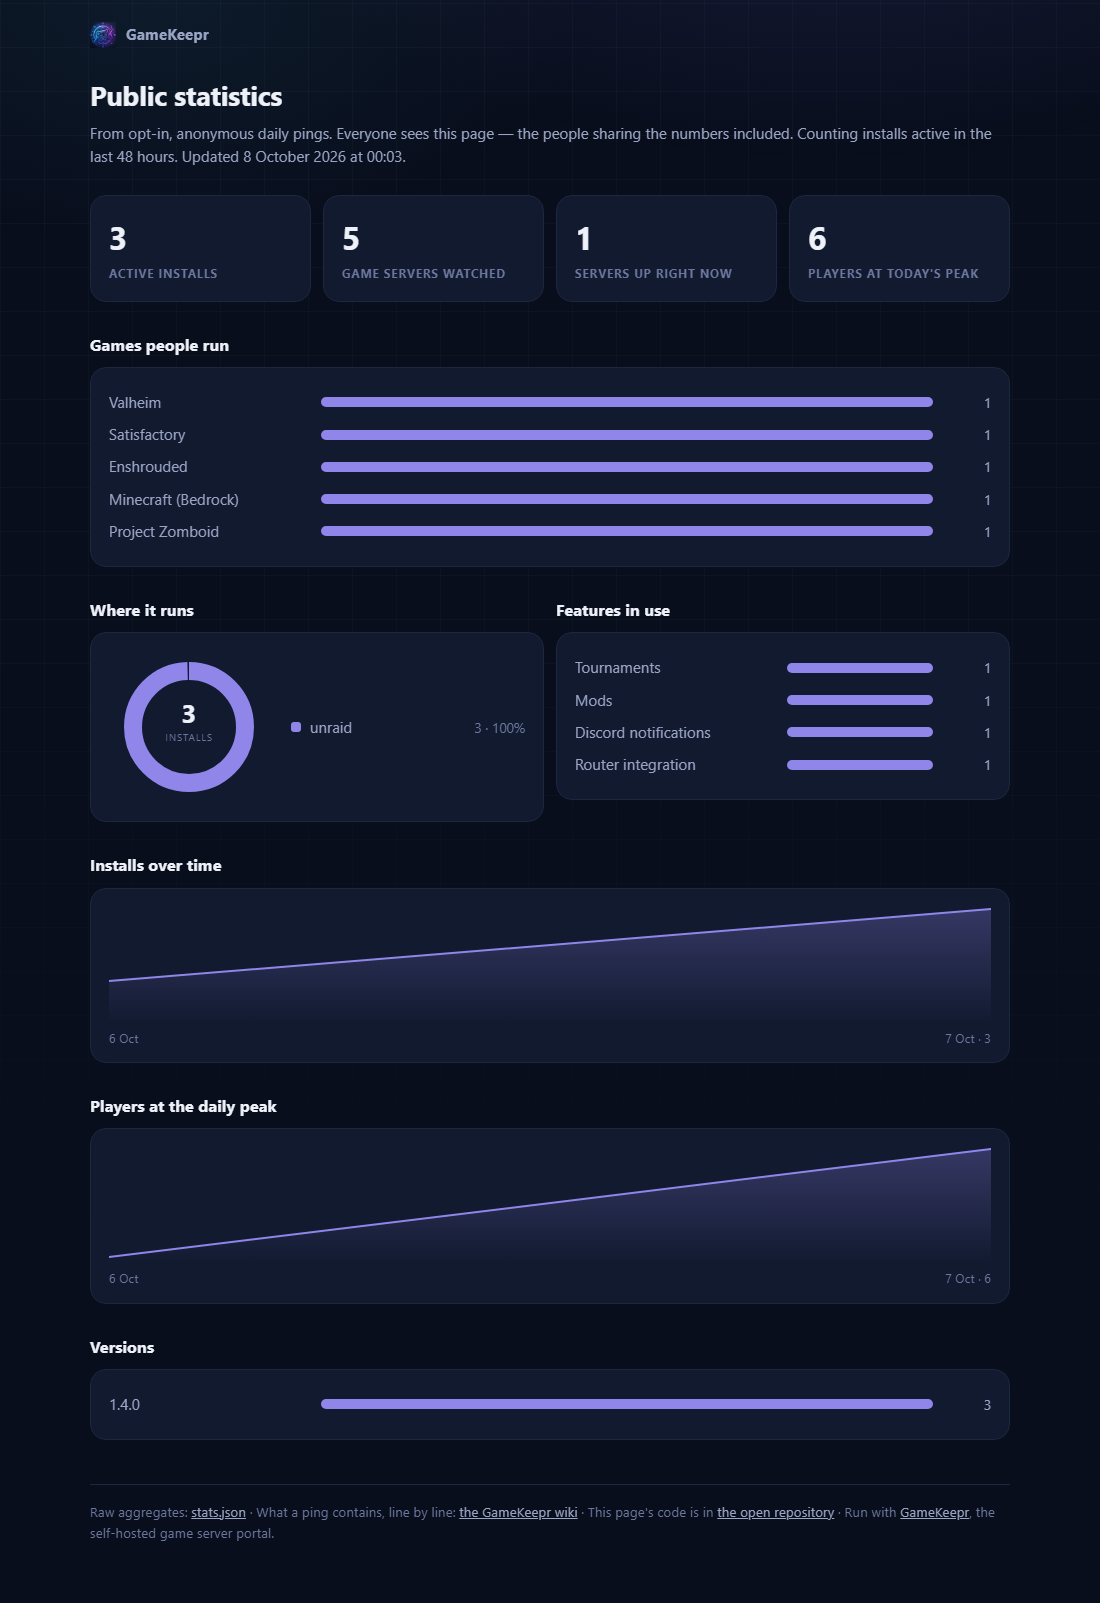
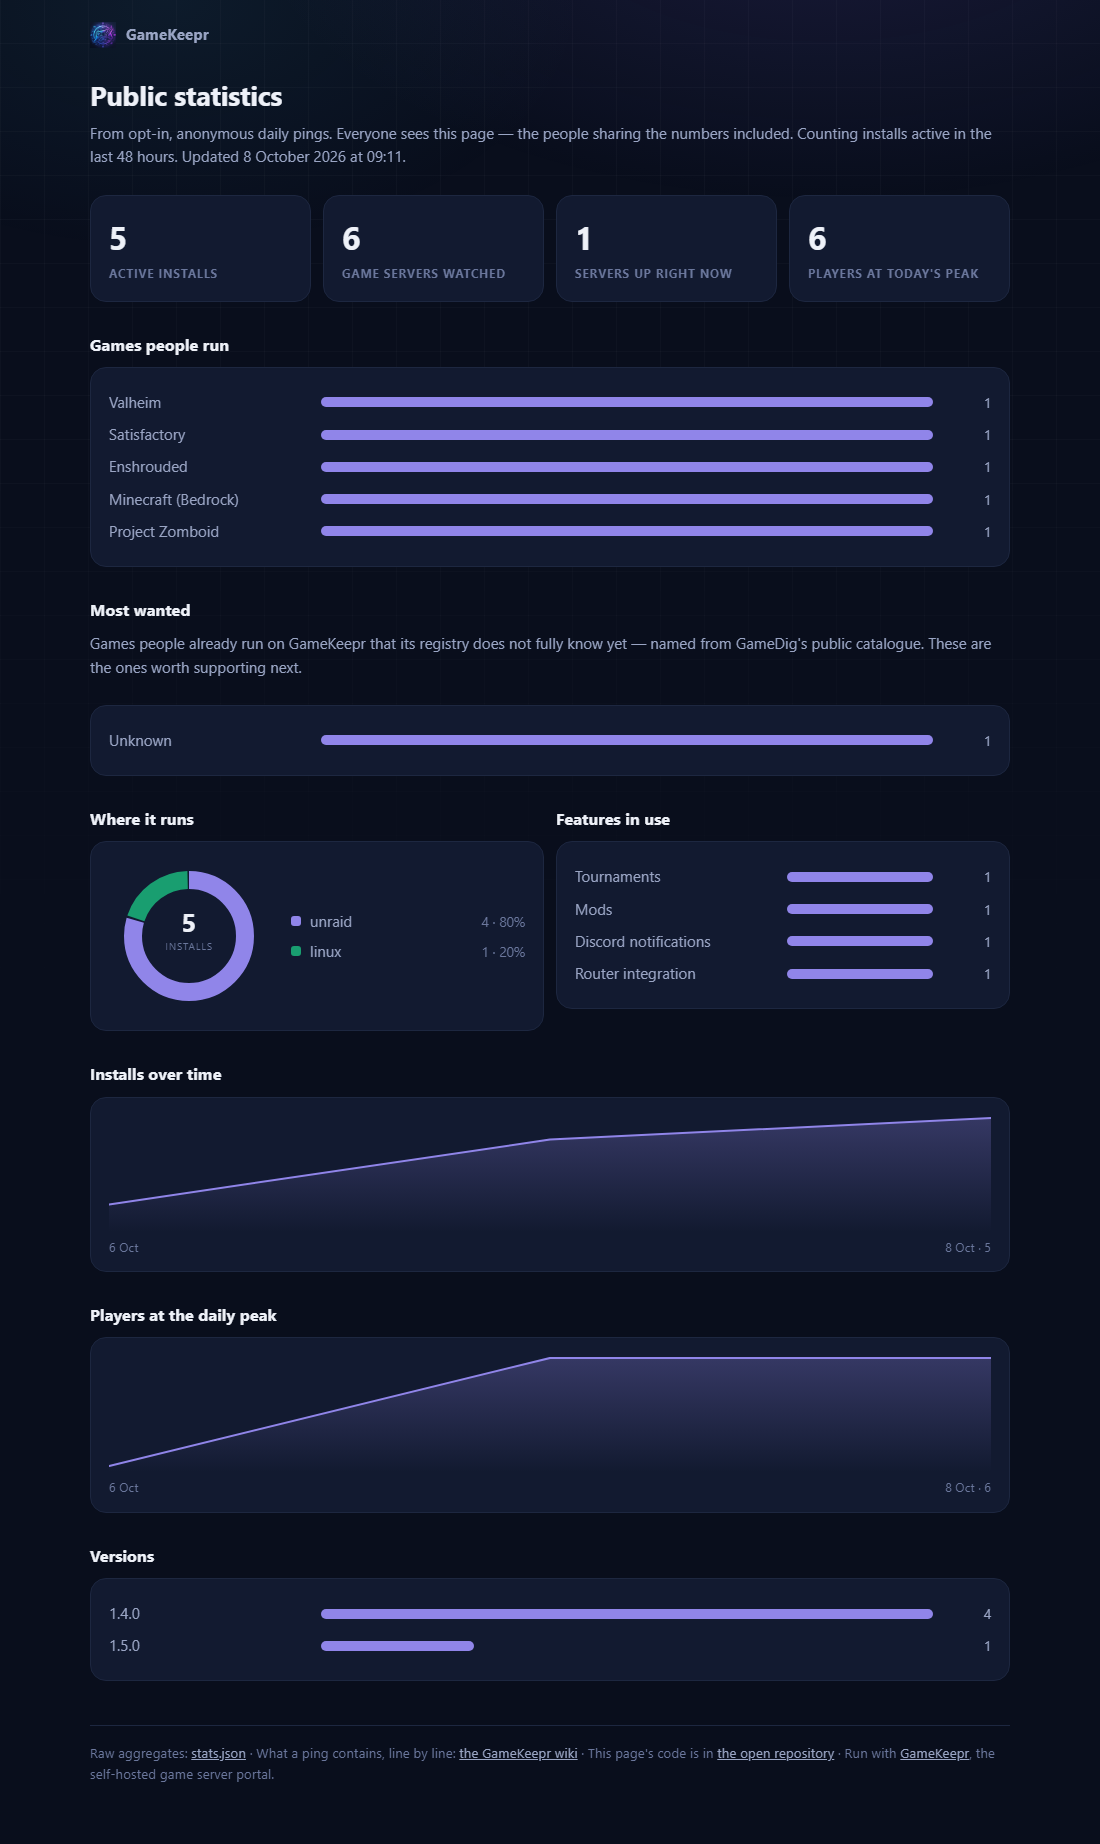
Legacy pings land on the wish list too, and a fresh screenshot
A portal that has not upgraded yet still reports an unrecognised game
as "Unknown" inside games; the worker now routes exactly that name to
the wish list while aggregating, so the public page reads correctly
today instead of after everyone has updated. Verified live: "Games
people run" lists the five recognised ones, "Most wanted" holds the
Unknown.

diff --git a/mothership/worker.js b/mothership/worker.js
@@ -147,7 +147,12 @@ async function aggregates(env) {
   for (const row of rows) {
     try {
       for (const [name, count] of Object.entries(JSON.parse(row.games))) {
-        games[name] = (games[name] ?? 0) + Number(count);
+        // A portal older than the gamesWanted split still reports an
+        // unrecognised game as "Unknown" inside games; it belongs on the
+        // wish list either way, so the page reads right before everyone
+        // has upgraded.
+        const bucket = name === 'Unknown' ? wanted : games;
+        bucket[name] = (bucket[name] ?? 0) + Number(count);
       }
     } catch {
       /* a malformed stored row counts as nothing */
